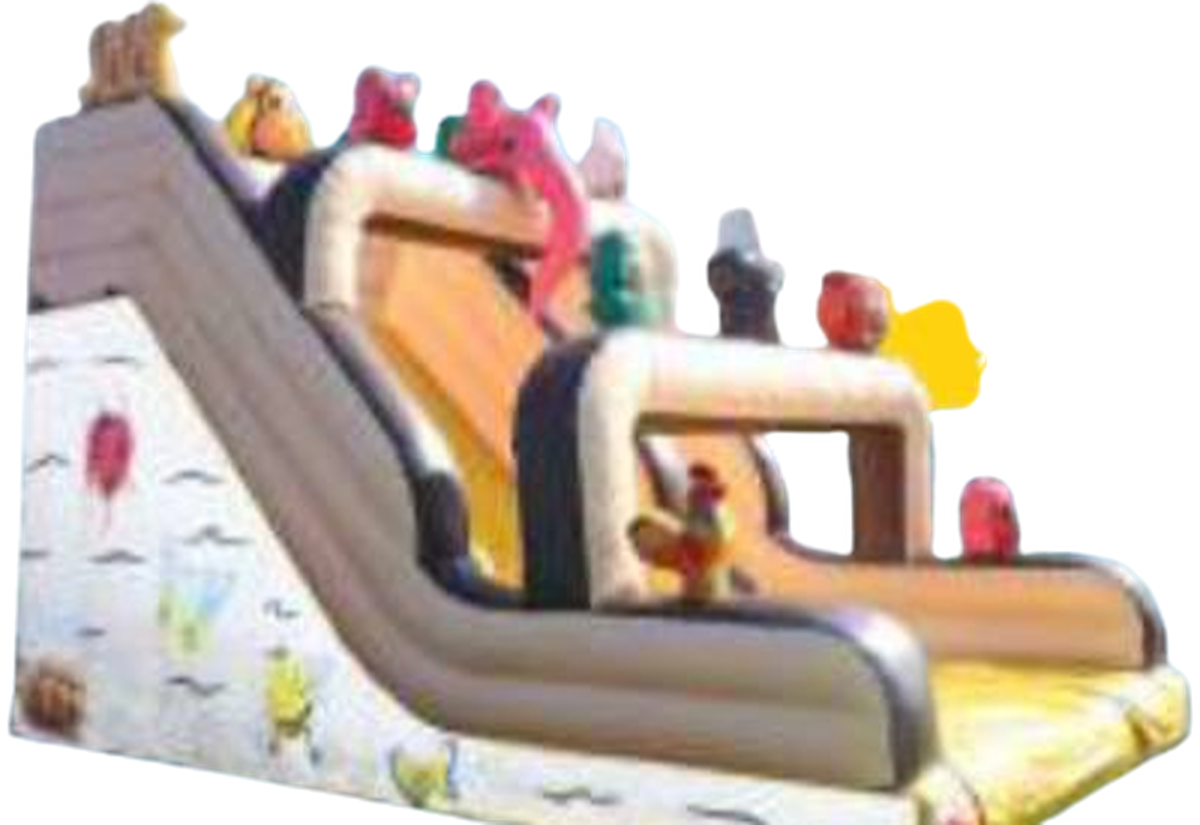
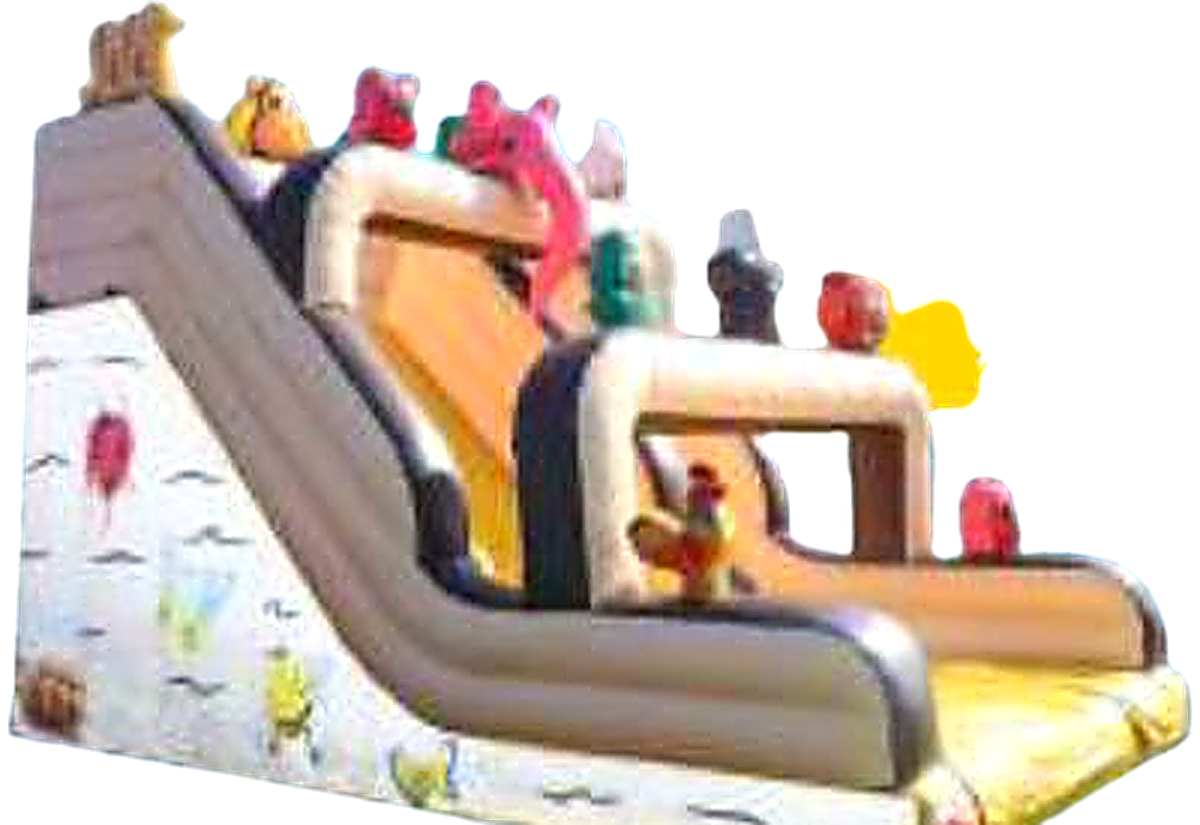
Inflatable Games & Kids' Fun: sharpen and boost contrast on all 30 catalog cutouts (local only)

diff --git a/service-inflatables.html b/service-inflatables.html
@@ -84,36 +84,36 @@
       <figure class="svc-photo reveal" style="--d:90ms"><img src="/.netlify/images?url=/images/svc-inflatables-2.jpg&amp;w=900&amp;q=90&amp;v=afe5e49c" srcset="/.netlify/images?url=/images/svc-inflatables-2.jpg&amp;w=600&amp;q=90&amp;v=afe5e49c 600w, /.netlify/images?url=/images/svc-inflatables-2.jpg&amp;w=900&amp;q=90&amp;v=afe5e49c 900w, /.netlify/images?url=/images/svc-inflatables-2.jpg&amp;w=1400&amp;q=90&amp;v=afe5e49c 1400w" sizes="(max-width:700px) 92vw, (max-width:1100px) 46vw, 360px" alt="Inflatable Games &amp; Kids&#x27; Fun by Paradream Events" loading="lazy" decoding="async"></figure>
       <figure class="svc-photo reveal" style="--d:180ms"><img src="/.netlify/images?url=/images/svc-inflatables-3.jpg&amp;w=900&amp;q=90&amp;v=d2acff7e" srcset="/.netlify/images?url=/images/svc-inflatables-3.jpg&amp;w=600&amp;q=90&amp;v=d2acff7e 600w, /.netlify/images?url=/images/svc-inflatables-3.jpg&amp;w=900&amp;q=90&amp;v=d2acff7e 900w, /.netlify/images?url=/images/svc-inflatables-3.jpg&amp;w=1400&amp;q=90&amp;v=d2acff7e 1400w" sizes="(max-width:700px) 92vw, (max-width:1100px) 46vw, 360px" alt="Inflatable Games &amp; Kids&#x27; Fun by Paradream Events" loading="lazy" decoding="async"></figure>
       <figure class="svc-photo reveal" style="--d:0ms"><img src="/.netlify/images?url=/images/svc-inflatables-4.jpg&amp;w=900&amp;q=90&amp;v=7fde3c8b" srcset="/.netlify/images?url=/images/svc-inflatables-4.jpg&amp;w=600&amp;q=90&amp;v=7fde3c8b 600w, /.netlify/images?url=/images/svc-inflatables-4.jpg&amp;w=900&amp;q=90&amp;v=7fde3c8b 900w, /.netlify/images?url=/images/svc-inflatables-4.jpg&amp;w=1400&amp;q=90&amp;v=7fde3c8b 1400w" sizes="(max-width:700px) 92vw, (max-width:1100px) 46vw, 360px" alt="Inflatable Games &amp; Kids&#x27; Fun by Paradream Events" loading="lazy" decoding="async"></figure>
-      <figure class="svc-photo reveal" style="--d:90ms"><img src="/.netlify/images?url=/images/svc-inflatables-5.png&amp;w=900&amp;q=90&amp;v=60a9649d" srcset="/.netlify/images?url=/images/svc-inflatables-5.png&amp;w=600&amp;q=90&amp;v=60a9649d 600w, /.netlify/images?url=/images/svc-inflatables-5.png&amp;w=900&amp;q=90&amp;v=60a9649d 900w, /.netlify/images?url=/images/svc-inflatables-5.png&amp;w=1400&amp;q=90&amp;v=60a9649d 1400w" sizes="(max-width:700px) 92vw, (max-width:1100px) 46vw, 360px" alt="Inflatable Games &amp; Kids&#x27; Fun by Paradream Events" loading="lazy" decoding="async"></figure>
-      <figure class="svc-photo reveal" style="--d:180ms"><img src="/.netlify/images?url=/images/svc-inflatables-6.png&amp;w=900&amp;q=90&amp;v=51c87a32" srcset="/.netlify/images?url=/images/svc-inflatables-6.png&amp;w=600&amp;q=90&amp;v=51c87a32 600w, /.netlify/images?url=/images/svc-inflatables-6.png&amp;w=900&amp;q=90&amp;v=51c87a32 900w, /.netlify/images?url=/images/svc-inflatables-6.png&amp;w=1400&amp;q=90&amp;v=51c87a32 1400w" sizes="(max-width:700px) 92vw, (max-width:1100px) 46vw, 360px" alt="Inflatable Games &amp; Kids&#x27; Fun by Paradream Events" loading="lazy" decoding="async"></figure>
-      <figure class="svc-photo reveal" style="--d:0ms"><img src="/.netlify/images?url=/images/svc-inflatables-7.png&amp;w=900&amp;q=90&amp;v=8369c013" srcset="/.netlify/images?url=/images/svc-inflatables-7.png&amp;w=600&amp;q=90&amp;v=8369c013 600w, /.netlify/images?url=/images/svc-inflatables-7.png&amp;w=900&amp;q=90&amp;v=8369c013 900w, /.netlify/images?url=/images/svc-inflatables-7.png&amp;w=1400&amp;q=90&amp;v=8369c013 1400w" sizes="(max-width:700px) 92vw, (max-width:1100px) 46vw, 360px" alt="Inflatable Games &amp; Kids&#x27; Fun by Paradream Events" loading="lazy" decoding="async"></figure>
-      <figure class="svc-photo reveal" style="--d:90ms"><img src="/.netlify/images?url=/images/svc-inflatables-8.png&amp;w=900&amp;q=90&amp;v=6cb397a5" srcset="/.netlify/images?url=/images/svc-inflatables-8.png&amp;w=600&amp;q=90&amp;v=6cb397a5 600w, /.netlify/images?url=/images/svc-inflatables-8.png&amp;w=900&amp;q=90&amp;v=6cb397a5 900w, /.netlify/images?url=/images/svc-inflatables-8.png&amp;w=1400&amp;q=90&amp;v=6cb397a5 1400w" sizes="(max-width:700px) 92vw, (max-width:1100px) 46vw, 360px" alt="Inflatable Games &amp; Kids&#x27; Fun by Paradream Events" loading="lazy" decoding="async"></figure>
-      <figure class="svc-photo reveal" style="--d:180ms"><img src="/.netlify/images?url=/images/svc-inflatables-9.png&amp;w=900&amp;q=90&amp;v=718d1d9f" srcset="/.netlify/images?url=/images/svc-inflatables-9.png&amp;w=600&amp;q=90&amp;v=718d1d9f 600w, /.netlify/images?url=/images/svc-inflatables-9.png&amp;w=900&amp;q=90&amp;v=718d1d9f 900w, /.netlify/images?url=/images/svc-inflatables-9.png&amp;w=1400&amp;q=90&amp;v=718d1d9f 1400w" sizes="(max-width:700px) 92vw, (max-width:1100px) 46vw, 360px" alt="Inflatable Games &amp; Kids&#x27; Fun by Paradream Events" loading="lazy" decoding="async"></figure>
-      <figure class="svc-photo reveal" style="--d:0ms"><img src="/.netlify/images?url=/images/svc-inflatables-10.png&amp;w=900&amp;q=90&amp;v=f4b3ef18" srcset="/.netlify/images?url=/images/svc-inflatables-10.png&amp;w=600&amp;q=90&amp;v=f4b3ef18 600w, /.netlify/images?url=/images/svc-inflatables-10.png&amp;w=900&amp;q=90&amp;v=f4b3ef18 900w, /.netlify/images?url=/images/svc-inflatables-10.png&amp;w=1400&amp;q=90&amp;v=f4b3ef18 1400w" sizes="(max-width:700px) 92vw, (max-width:1100px) 46vw, 360px" alt="Inflatable Games &amp; Kids&#x27; Fun by Paradream Events" loading="lazy" decoding="async"></figure>
-      <figure class="svc-photo reveal" style="--d:90ms"><img src="/.netlify/images?url=/images/svc-inflatables-11.png&amp;w=900&amp;q=90&amp;v=94c405a4" srcset="/.netlify/images?url=/images/svc-inflatables-11.png&amp;w=600&amp;q=90&amp;v=94c405a4 600w, /.netlify/images?url=/images/svc-inflatables-11.png&amp;w=900&amp;q=90&amp;v=94c405a4 900w, /.netlify/images?url=/images/svc-inflatables-11.png&amp;w=1400&amp;q=90&amp;v=94c405a4 1400w" sizes="(max-width:700px) 92vw, (max-width:1100px) 46vw, 360px" alt="Inflatable Games &amp; Kids&#x27; Fun by Paradream Events" loading="lazy" decoding="async"></figure>
-      <figure class="svc-photo reveal" style="--d:180ms"><img src="/.netlify/images?url=/images/svc-inflatables-12.png&amp;w=900&amp;q=90&amp;v=8c9dfc99" srcset="/.netlify/images?url=/images/svc-inflatables-12.png&amp;w=600&amp;q=90&amp;v=8c9dfc99 600w, /.netlify/images?url=/images/svc-inflatables-12.png&amp;w=900&amp;q=90&amp;v=8c9dfc99 900w, /.netlify/images?url=/images/svc-inflatables-12.png&amp;w=1400&amp;q=90&amp;v=8c9dfc99 1400w" sizes="(max-width:700px) 92vw, (max-width:1100px) 46vw, 360px" alt="Inflatable Games &amp; Kids&#x27; Fun by Paradream Events" loading="lazy" decoding="async"></figure>
-      <figure class="svc-photo reveal" style="--d:0ms"><img src="/.netlify/images?url=/images/svc-inflatables-13.png&amp;w=900&amp;q=90&amp;v=9fdfcb90" srcset="/.netlify/images?url=/images/svc-inflatables-13.png&amp;w=600&amp;q=90&amp;v=9fdfcb90 600w, /.netlify/images?url=/images/svc-inflatables-13.png&amp;w=900&amp;q=90&amp;v=9fdfcb90 900w, /.netlify/images?url=/images/svc-inflatables-13.png&amp;w=1400&amp;q=90&amp;v=9fdfcb90 1400w" sizes="(max-width:700px) 92vw, (max-width:1100px) 46vw, 360px" alt="Inflatable Games &amp; Kids&#x27; Fun by Paradream Events" loading="lazy" decoding="async"></figure>
-      <figure class="svc-photo reveal" style="--d:90ms"><img src="/.netlify/images?url=/images/svc-inflatables-14.png&amp;w=900&amp;q=90&amp;v=ad14c61b" srcset="/.netlify/images?url=/images/svc-inflatables-14.png&amp;w=600&amp;q=90&amp;v=ad14c61b 600w, /.netlify/images?url=/images/svc-inflatables-14.png&amp;w=900&amp;q=90&amp;v=ad14c61b 900w, /.netlify/images?url=/images/svc-inflatables-14.png&amp;w=1400&amp;q=90&amp;v=ad14c61b 1400w" sizes="(max-width:700px) 92vw, (max-width:1100px) 46vw, 360px" alt="Inflatable Games &amp; Kids&#x27; Fun by Paradream Events" loading="lazy" decoding="async"></figure>
-      <figure class="svc-photo reveal" style="--d:180ms"><img src="/.netlify/images?url=/images/svc-inflatables-15.png&amp;w=900&amp;q=90&amp;v=b936c612" srcset="/.netlify/images?url=/images/svc-inflatables-15.png&amp;w=600&amp;q=90&amp;v=b936c612 600w, /.netlify/images?url=/images/svc-inflatables-15.png&amp;w=900&amp;q=90&amp;v=b936c612 900w, /.netlify/images?url=/images/svc-inflatables-15.png&amp;w=1400&amp;q=90&amp;v=b936c612 1400w" sizes="(max-width:700px) 92vw, (max-width:1100px) 46vw, 360px" alt="Inflatable Games &amp; Kids&#x27; Fun by Paradream Events" loading="lazy" decoding="async"></figure>
-      <figure class="svc-photo reveal" style="--d:0ms"><img src="/.netlify/images?url=/images/svc-inflatables-16.png&amp;w=900&amp;q=90&amp;v=3f46c5b8" srcset="/.netlify/images?url=/images/svc-inflatables-16.png&amp;w=600&amp;q=90&amp;v=3f46c5b8 600w, /.netlify/images?url=/images/svc-inflatables-16.png&amp;w=900&amp;q=90&amp;v=3f46c5b8 900w, /.netlify/images?url=/images/svc-inflatables-16.png&amp;w=1400&amp;q=90&amp;v=3f46c5b8 1400w" sizes="(max-width:700px) 92vw, (max-width:1100px) 46vw, 360px" alt="Inflatable Games &amp; Kids&#x27; Fun by Paradream Events" loading="lazy" decoding="async"></figure>
-      <figure class="svc-photo reveal" style="--d:90ms"><img src="/.netlify/images?url=/images/svc-inflatables-17.png&amp;w=900&amp;q=90&amp;v=e3d0f9cc" srcset="/.netlify/images?url=/images/svc-inflatables-17.png&amp;w=600&amp;q=90&amp;v=e3d0f9cc 600w, /.netlify/images?url=/images/svc-inflatables-17.png&amp;w=900&amp;q=90&amp;v=e3d0f9cc 900w, /.netlify/images?url=/images/svc-inflatables-17.png&amp;w=1400&amp;q=90&amp;v=e3d0f9cc 1400w" sizes="(max-width:700px) 92vw, (max-width:1100px) 46vw, 360px" alt="Inflatable Games &amp; Kids&#x27; Fun by Paradream Events" loading="lazy" decoding="async"></figure>
-      <figure class="svc-photo reveal" style="--d:180ms"><img src="/.netlify/images?url=/images/svc-inflatables-18.png&amp;w=900&amp;q=90&amp;v=20090987" srcset="/.netlify/images?url=/images/svc-inflatables-18.png&amp;w=600&amp;q=90&amp;v=20090987 600w, /.netlify/images?url=/images/svc-inflatables-18.png&amp;w=900&amp;q=90&amp;v=20090987 900w, /.netlify/images?url=/images/svc-inflatables-18.png&amp;w=1400&amp;q=90&amp;v=20090987 1400w" sizes="(max-width:700px) 92vw, (max-width:1100px) 46vw, 360px" alt="Inflatable Games &amp; Kids&#x27; Fun by Paradream Events" loading="lazy" decoding="async"></figure>
-      <figure class="svc-photo reveal" style="--d:0ms"><img src="/.netlify/images?url=/images/svc-inflatables-19.png&amp;w=900&amp;q=90&amp;v=02a47943" srcset="/.netlify/images?url=/images/svc-inflatables-19.png&amp;w=600&amp;q=90&amp;v=02a47943 600w, /.netlify/images?url=/images/svc-inflatables-19.png&amp;w=900&amp;q=90&amp;v=02a47943 900w, /.netlify/images?url=/images/svc-inflatables-19.png&amp;w=1400&amp;q=90&amp;v=02a47943 1400w" sizes="(max-width:700px) 92vw, (max-width:1100px) 46vw, 360px" alt="Inflatable Games &amp; Kids&#x27; Fun by Paradream Events" loading="lazy" decoding="async"></figure>
-      <figure class="svc-photo reveal" style="--d:90ms"><img src="/.netlify/images?url=/images/svc-inflatables-20.png&amp;w=900&amp;q=90&amp;v=647cbd70" srcset="/.netlify/images?url=/images/svc-inflatables-20.png&amp;w=600&amp;q=90&amp;v=647cbd70 600w, /.netlify/images?url=/images/svc-inflatables-20.png&amp;w=900&amp;q=90&amp;v=647cbd70 900w, /.netlify/images?url=/images/svc-inflatables-20.png&amp;w=1400&amp;q=90&amp;v=647cbd70 1400w" sizes="(max-width:700px) 92vw, (max-width:1100px) 46vw, 360px" alt="Inflatable Games &amp; Kids&#x27; Fun by Paradream Events" loading="lazy" decoding="async"></figure>
-      <figure class="svc-photo reveal" style="--d:180ms"><img src="/.netlify/images?url=/images/svc-inflatables-21.png&amp;w=900&amp;q=90&amp;v=03945001" srcset="/.netlify/images?url=/images/svc-inflatables-21.png&amp;w=600&amp;q=90&amp;v=03945001 600w, /.netlify/images?url=/images/svc-inflatables-21.png&amp;w=900&amp;q=90&amp;v=03945001 900w, /.netlify/images?url=/images/svc-inflatables-21.png&amp;w=1400&amp;q=90&amp;v=03945001 1400w" sizes="(max-width:700px) 92vw, (max-width:1100px) 46vw, 360px" alt="Inflatable Games &amp; Kids&#x27; Fun by Paradream Events" loading="lazy" decoding="async"></figure>
-      <figure class="svc-photo reveal" style="--d:0ms"><img src="/.netlify/images?url=/images/svc-inflatables-22.png&amp;w=900&amp;q=90&amp;v=3f6f5fab" srcset="/.netlify/images?url=/images/svc-inflatables-22.png&amp;w=600&amp;q=90&amp;v=3f6f5fab 600w, /.netlify/images?url=/images/svc-inflatables-22.png&amp;w=900&amp;q=90&amp;v=3f6f5fab 900w, /.netlify/images?url=/images/svc-inflatables-22.png&amp;w=1400&amp;q=90&amp;v=3f6f5fab 1400w" sizes="(max-width:700px) 92vw, (max-width:1100px) 46vw, 360px" alt="Inflatable Games &amp; Kids&#x27; Fun by Paradream Events" loading="lazy" decoding="async"></figure>
-      <figure class="svc-photo reveal" style="--d:90ms"><img src="/.netlify/images?url=/images/svc-inflatables-23.png&amp;w=900&amp;q=90&amp;v=01598f93" srcset="/.netlify/images?url=/images/svc-inflatables-23.png&amp;w=600&amp;q=90&amp;v=01598f93 600w, /.netlify/images?url=/images/svc-inflatables-23.png&amp;w=900&amp;q=90&amp;v=01598f93 900w, /.netlify/images?url=/images/svc-inflatables-23.png&amp;w=1400&amp;q=90&amp;v=01598f93 1400w" sizes="(max-width:700px) 92vw, (max-width:1100px) 46vw, 360px" alt="Inflatable Games &amp; Kids&#x27; Fun by Paradream Events" loading="lazy" decoding="async"></figure>
-      <figure class="svc-photo reveal" style="--d:180ms"><img src="/.netlify/images?url=/images/svc-inflatables-24.png&amp;w=900&amp;q=90&amp;v=35a049d2" srcset="/.netlify/images?url=/images/svc-inflatables-24.png&amp;w=600&amp;q=90&amp;v=35a049d2 600w, /.netlify/images?url=/images/svc-inflatables-24.png&amp;w=900&amp;q=90&amp;v=35a049d2 900w, /.netlify/images?url=/images/svc-inflatables-24.png&amp;w=1400&amp;q=90&amp;v=35a049d2 1400w" sizes="(max-width:700px) 92vw, (max-width:1100px) 46vw, 360px" alt="Inflatable Games &amp; Kids&#x27; Fun by Paradream Events" loading="lazy" decoding="async"></figure>
-      <figure class="svc-photo reveal" style="--d:0ms"><img src="/.netlify/images?url=/images/svc-inflatables-25.png&amp;w=900&amp;q=90&amp;v=b51b627a" srcset="/.netlify/images?url=/images/svc-inflatables-25.png&amp;w=600&amp;q=90&amp;v=b51b627a 600w, /.netlify/images?url=/images/svc-inflatables-25.png&amp;w=900&amp;q=90&amp;v=b51b627a 900w, /.netlify/images?url=/images/svc-inflatables-25.png&amp;w=1400&amp;q=90&amp;v=b51b627a 1400w" sizes="(max-width:700px) 92vw, (max-width:1100px) 46vw, 360px" alt="Inflatable Games &amp; Kids&#x27; Fun by Paradream Events" loading="lazy" decoding="async"></figure>
-      <figure class="svc-photo reveal" style="--d:90ms"><img src="/.netlify/images?url=/images/svc-inflatables-26.png&amp;w=900&amp;q=90&amp;v=51e1f03b" srcset="/.netlify/images?url=/images/svc-inflatables-26.png&amp;w=600&amp;q=90&amp;v=51e1f03b 600w, /.netlify/images?url=/images/svc-inflatables-26.png&amp;w=900&amp;q=90&amp;v=51e1f03b 900w, /.netlify/images?url=/images/svc-inflatables-26.png&amp;w=1400&amp;q=90&amp;v=51e1f03b 1400w" sizes="(max-width:700px) 92vw, (max-width:1100px) 46vw, 360px" alt="Inflatable Games &amp; Kids&#x27; Fun by Paradream Events" loading="lazy" decoding="async"></figure>
-      <figure class="svc-photo reveal" style="--d:180ms"><img src="/.netlify/images?url=/images/svc-inflatables-27.png&amp;w=900&amp;q=90&amp;v=01dc555d" srcset="/.netlify/images?url=/images/svc-inflatables-27.png&amp;w=600&amp;q=90&amp;v=01dc555d 600w, /.netlify/images?url=/images/svc-inflatables-27.png&amp;w=900&amp;q=90&amp;v=01dc555d 900w, /.netlify/images?url=/images/svc-inflatables-27.png&amp;w=1400&amp;q=90&amp;v=01dc555d 1400w" sizes="(max-width:700px) 92vw, (max-width:1100px) 46vw, 360px" alt="Inflatable Games &amp; Kids&#x27; Fun by Paradream Events" loading="lazy" decoding="async"></figure>
-      <figure class="svc-photo reveal" style="--d:0ms"><img src="/.netlify/images?url=/images/svc-inflatables-28.png&amp;w=900&amp;q=90&amp;v=6c4ebe86" srcset="/.netlify/images?url=/images/svc-inflatables-28.png&amp;w=600&amp;q=90&amp;v=6c4ebe86 600w, /.netlify/images?url=/images/svc-inflatables-28.png&amp;w=900&amp;q=90&amp;v=6c4ebe86 900w, /.netlify/images?url=/images/svc-inflatables-28.png&amp;w=1400&amp;q=90&amp;v=6c4ebe86 1400w" sizes="(max-width:700px) 92vw, (max-width:1100px) 46vw, 360px" alt="Inflatable Games &amp; Kids&#x27; Fun by Paradream Events" loading="lazy" decoding="async"></figure>
-      <figure class="svc-photo reveal" style="--d:90ms"><img src="/.netlify/images?url=/images/svc-inflatables-29.png&amp;w=900&amp;q=90&amp;v=2346327f" srcset="/.netlify/images?url=/images/svc-inflatables-29.png&amp;w=600&amp;q=90&amp;v=2346327f 600w, /.netlify/images?url=/images/svc-inflatables-29.png&amp;w=900&amp;q=90&amp;v=2346327f 900w, /.netlify/images?url=/images/svc-inflatables-29.png&amp;w=1400&amp;q=90&amp;v=2346327f 1400w" sizes="(max-width:700px) 92vw, (max-width:1100px) 46vw, 360px" alt="Inflatable Games &amp; Kids&#x27; Fun by Paradream Events" loading="lazy" decoding="async"></figure>
-      <figure class="svc-photo reveal" style="--d:180ms"><img src="/.netlify/images?url=/images/svc-inflatables-30.png&amp;w=900&amp;q=90&amp;v=c3b0a0e2" srcset="/.netlify/images?url=/images/svc-inflatables-30.png&amp;w=600&amp;q=90&amp;v=c3b0a0e2 600w, /.netlify/images?url=/images/svc-inflatables-30.png&amp;w=900&amp;q=90&amp;v=c3b0a0e2 900w, /.netlify/images?url=/images/svc-inflatables-30.png&amp;w=1400&amp;q=90&amp;v=c3b0a0e2 1400w" sizes="(max-width:700px) 92vw, (max-width:1100px) 46vw, 360px" alt="Inflatable Games &amp; Kids&#x27; Fun by Paradream Events" loading="lazy" decoding="async"></figure>
-      <figure class="svc-photo reveal" style="--d:0ms"><img src="/.netlify/images?url=/images/svc-inflatables-31.png&amp;w=900&amp;q=90&amp;v=279b0f01" srcset="/.netlify/images?url=/images/svc-inflatables-31.png&amp;w=600&amp;q=90&amp;v=279b0f01 600w, /.netlify/images?url=/images/svc-inflatables-31.png&amp;w=900&amp;q=90&amp;v=279b0f01 900w, /.netlify/images?url=/images/svc-inflatables-31.png&amp;w=1400&amp;q=90&amp;v=279b0f01 1400w" sizes="(max-width:700px) 92vw, (max-width:1100px) 46vw, 360px" alt="Inflatable Games &amp; Kids&#x27; Fun by Paradream Events" loading="lazy" decoding="async"></figure>
-      <figure class="svc-photo reveal" style="--d:90ms"><img src="/.netlify/images?url=/images/svc-inflatables-32.png&amp;w=900&amp;q=90&amp;v=ebae00ef" srcset="/.netlify/images?url=/images/svc-inflatables-32.png&amp;w=600&amp;q=90&amp;v=ebae00ef 600w, /.netlify/images?url=/images/svc-inflatables-32.png&amp;w=900&amp;q=90&amp;v=ebae00ef 900w, /.netlify/images?url=/images/svc-inflatables-32.png&amp;w=1400&amp;q=90&amp;v=ebae00ef 1400w" sizes="(max-width:700px) 92vw, (max-width:1100px) 46vw, 360px" alt="Inflatable Games &amp; Kids&#x27; Fun by Paradream Events" loading="lazy" decoding="async"></figure>
-      <figure class="svc-photo reveal" style="--d:180ms"><img src="/.netlify/images?url=/images/svc-inflatables-33.png&amp;w=900&amp;q=90&amp;v=aac0f562" srcset="/.netlify/images?url=/images/svc-inflatables-33.png&amp;w=600&amp;q=90&amp;v=aac0f562 600w, /.netlify/images?url=/images/svc-inflatables-33.png&amp;w=900&amp;q=90&amp;v=aac0f562 900w, /.netlify/images?url=/images/svc-inflatables-33.png&amp;w=1400&amp;q=90&amp;v=aac0f562 1400w" sizes="(max-width:700px) 92vw, (max-width:1100px) 46vw, 360px" alt="Inflatable Games &amp; Kids&#x27; Fun by Paradream Events" loading="lazy" decoding="async"></figure>
-      <figure class="svc-photo reveal" style="--d:0ms"><img src="/.netlify/images?url=/images/svc-inflatables-34.png&amp;w=900&amp;q=90&amp;v=8549872c" srcset="/.netlify/images?url=/images/svc-inflatables-34.png&amp;w=600&amp;q=90&amp;v=8549872c 600w, /.netlify/images?url=/images/svc-inflatables-34.png&amp;w=900&amp;q=90&amp;v=8549872c 900w, /.netlify/images?url=/images/svc-inflatables-34.png&amp;w=1400&amp;q=90&amp;v=8549872c 1400w" sizes="(max-width:700px) 92vw, (max-width:1100px) 46vw, 360px" alt="Inflatable Games &amp; Kids&#x27; Fun by Paradream Events" loading="lazy" decoding="async"></figure>
+      <figure class="svc-photo reveal" style="--d:90ms"><img src="/.netlify/images?url=/images/svc-inflatables-5.png&amp;w=900&amp;q=90&amp;v=7063a326" srcset="/.netlify/images?url=/images/svc-inflatables-5.png&amp;w=600&amp;q=90&amp;v=7063a326 600w, /.netlify/images?url=/images/svc-inflatables-5.png&amp;w=900&amp;q=90&amp;v=7063a326 900w, /.netlify/images?url=/images/svc-inflatables-5.png&amp;w=1400&amp;q=90&amp;v=7063a326 1400w" sizes="(max-width:700px) 92vw, (max-width:1100px) 46vw, 360px" alt="Inflatable Games &amp; Kids&#x27; Fun by Paradream Events" loading="lazy" decoding="async"></figure>
+      <figure class="svc-photo reveal" style="--d:180ms"><img src="/.netlify/images?url=/images/svc-inflatables-6.png&amp;w=900&amp;q=90&amp;v=c65e39b2" srcset="/.netlify/images?url=/images/svc-inflatables-6.png&amp;w=600&amp;q=90&amp;v=c65e39b2 600w, /.netlify/images?url=/images/svc-inflatables-6.png&amp;w=900&amp;q=90&amp;v=c65e39b2 900w, /.netlify/images?url=/images/svc-inflatables-6.png&amp;w=1400&amp;q=90&amp;v=c65e39b2 1400w" sizes="(max-width:700px) 92vw, (max-width:1100px) 46vw, 360px" alt="Inflatable Games &amp; Kids&#x27; Fun by Paradream Events" loading="lazy" decoding="async"></figure>
+      <figure class="svc-photo reveal" style="--d:0ms"><img src="/.netlify/images?url=/images/svc-inflatables-7.png&amp;w=900&amp;q=90&amp;v=87ff0075" srcset="/.netlify/images?url=/images/svc-inflatables-7.png&amp;w=600&amp;q=90&amp;v=87ff0075 600w, /.netlify/images?url=/images/svc-inflatables-7.png&amp;w=900&amp;q=90&amp;v=87ff0075 900w, /.netlify/images?url=/images/svc-inflatables-7.png&amp;w=1400&amp;q=90&amp;v=87ff0075 1400w" sizes="(max-width:700px) 92vw, (max-width:1100px) 46vw, 360px" alt="Inflatable Games &amp; Kids&#x27; Fun by Paradream Events" loading="lazy" decoding="async"></figure>
+      <figure class="svc-photo reveal" style="--d:90ms"><img src="/.netlify/images?url=/images/svc-inflatables-8.png&amp;w=900&amp;q=90&amp;v=ba74fb04" srcset="/.netlify/images?url=/images/svc-inflatables-8.png&amp;w=600&amp;q=90&amp;v=ba74fb04 600w, /.netlify/images?url=/images/svc-inflatables-8.png&amp;w=900&amp;q=90&amp;v=ba74fb04 900w, /.netlify/images?url=/images/svc-inflatables-8.png&amp;w=1400&amp;q=90&amp;v=ba74fb04 1400w" sizes="(max-width:700px) 92vw, (max-width:1100px) 46vw, 360px" alt="Inflatable Games &amp; Kids&#x27; Fun by Paradream Events" loading="lazy" decoding="async"></figure>
+      <figure class="svc-photo reveal" style="--d:180ms"><img src="/.netlify/images?url=/images/svc-inflatables-9.png&amp;w=900&amp;q=90&amp;v=8b869862" srcset="/.netlify/images?url=/images/svc-inflatables-9.png&amp;w=600&amp;q=90&amp;v=8b869862 600w, /.netlify/images?url=/images/svc-inflatables-9.png&amp;w=900&amp;q=90&amp;v=8b869862 900w, /.netlify/images?url=/images/svc-inflatables-9.png&amp;w=1400&amp;q=90&amp;v=8b869862 1400w" sizes="(max-width:700px) 92vw, (max-width:1100px) 46vw, 360px" alt="Inflatable Games &amp; Kids&#x27; Fun by Paradream Events" loading="lazy" decoding="async"></figure>
+      <figure class="svc-photo reveal" style="--d:0ms"><img src="/.netlify/images?url=/images/svc-inflatables-10.png&amp;w=900&amp;q=90&amp;v=2fbcb329" srcset="/.netlify/images?url=/images/svc-inflatables-10.png&amp;w=600&amp;q=90&amp;v=2fbcb329 600w, /.netlify/images?url=/images/svc-inflatables-10.png&amp;w=900&amp;q=90&amp;v=2fbcb329 900w, /.netlify/images?url=/images/svc-inflatables-10.png&amp;w=1400&amp;q=90&amp;v=2fbcb329 1400w" sizes="(max-width:700px) 92vw, (max-width:1100px) 46vw, 360px" alt="Inflatable Games &amp; Kids&#x27; Fun by Paradream Events" loading="lazy" decoding="async"></figure>
+      <figure class="svc-photo reveal" style="--d:90ms"><img src="/.netlify/images?url=/images/svc-inflatables-11.png&amp;w=900&amp;q=90&amp;v=29183a60" srcset="/.netlify/images?url=/images/svc-inflatables-11.png&amp;w=600&amp;q=90&amp;v=29183a60 600w, /.netlify/images?url=/images/svc-inflatables-11.png&amp;w=900&amp;q=90&amp;v=29183a60 900w, /.netlify/images?url=/images/svc-inflatables-11.png&amp;w=1400&amp;q=90&amp;v=29183a60 1400w" sizes="(max-width:700px) 92vw, (max-width:1100px) 46vw, 360px" alt="Inflatable Games &amp; Kids&#x27; Fun by Paradream Events" loading="lazy" decoding="async"></figure>
+      <figure class="svc-photo reveal" style="--d:180ms"><img src="/.netlify/images?url=/images/svc-inflatables-12.png&amp;w=900&amp;q=90&amp;v=c753f797" srcset="/.netlify/images?url=/images/svc-inflatables-12.png&amp;w=600&amp;q=90&amp;v=c753f797 600w, /.netlify/images?url=/images/svc-inflatables-12.png&amp;w=900&amp;q=90&amp;v=c753f797 900w, /.netlify/images?url=/images/svc-inflatables-12.png&amp;w=1400&amp;q=90&amp;v=c753f797 1400w" sizes="(max-width:700px) 92vw, (max-width:1100px) 46vw, 360px" alt="Inflatable Games &amp; Kids&#x27; Fun by Paradream Events" loading="lazy" decoding="async"></figure>
+      <figure class="svc-photo reveal" style="--d:0ms"><img src="/.netlify/images?url=/images/svc-inflatables-13.png&amp;w=900&amp;q=90&amp;v=ceaaf33e" srcset="/.netlify/images?url=/images/svc-inflatables-13.png&amp;w=600&amp;q=90&amp;v=ceaaf33e 600w, /.netlify/images?url=/images/svc-inflatables-13.png&amp;w=900&amp;q=90&amp;v=ceaaf33e 900w, /.netlify/images?url=/images/svc-inflatables-13.png&amp;w=1400&amp;q=90&amp;v=ceaaf33e 1400w" sizes="(max-width:700px) 92vw, (max-width:1100px) 46vw, 360px" alt="Inflatable Games &amp; Kids&#x27; Fun by Paradream Events" loading="lazy" decoding="async"></figure>
+      <figure class="svc-photo reveal" style="--d:90ms"><img src="/.netlify/images?url=/images/svc-inflatables-14.png&amp;w=900&amp;q=90&amp;v=07f8735f" srcset="/.netlify/images?url=/images/svc-inflatables-14.png&amp;w=600&amp;q=90&amp;v=07f8735f 600w, /.netlify/images?url=/images/svc-inflatables-14.png&amp;w=900&amp;q=90&amp;v=07f8735f 900w, /.netlify/images?url=/images/svc-inflatables-14.png&amp;w=1400&amp;q=90&amp;v=07f8735f 1400w" sizes="(max-width:700px) 92vw, (max-width:1100px) 46vw, 360px" alt="Inflatable Games &amp; Kids&#x27; Fun by Paradream Events" loading="lazy" decoding="async"></figure>
+      <figure class="svc-photo reveal" style="--d:180ms"><img src="/.netlify/images?url=/images/svc-inflatables-15.png&amp;w=900&amp;q=90&amp;v=b7a6bbc5" srcset="/.netlify/images?url=/images/svc-inflatables-15.png&amp;w=600&amp;q=90&amp;v=b7a6bbc5 600w, /.netlify/images?url=/images/svc-inflatables-15.png&amp;w=900&amp;q=90&amp;v=b7a6bbc5 900w, /.netlify/images?url=/images/svc-inflatables-15.png&amp;w=1400&amp;q=90&amp;v=b7a6bbc5 1400w" sizes="(max-width:700px) 92vw, (max-width:1100px) 46vw, 360px" alt="Inflatable Games &amp; Kids&#x27; Fun by Paradream Events" loading="lazy" decoding="async"></figure>
+      <figure class="svc-photo reveal" style="--d:0ms"><img src="/.netlify/images?url=/images/svc-inflatables-16.png&amp;w=900&amp;q=90&amp;v=c2a07615" srcset="/.netlify/images?url=/images/svc-inflatables-16.png&amp;w=600&amp;q=90&amp;v=c2a07615 600w, /.netlify/images?url=/images/svc-inflatables-16.png&amp;w=900&amp;q=90&amp;v=c2a07615 900w, /.netlify/images?url=/images/svc-inflatables-16.png&amp;w=1400&amp;q=90&amp;v=c2a07615 1400w" sizes="(max-width:700px) 92vw, (max-width:1100px) 46vw, 360px" alt="Inflatable Games &amp; Kids&#x27; Fun by Paradream Events" loading="lazy" decoding="async"></figure>
+      <figure class="svc-photo reveal" style="--d:90ms"><img src="/.netlify/images?url=/images/svc-inflatables-17.png&amp;w=900&amp;q=90&amp;v=ce0fd31e" srcset="/.netlify/images?url=/images/svc-inflatables-17.png&amp;w=600&amp;q=90&amp;v=ce0fd31e 600w, /.netlify/images?url=/images/svc-inflatables-17.png&amp;w=900&amp;q=90&amp;v=ce0fd31e 900w, /.netlify/images?url=/images/svc-inflatables-17.png&amp;w=1400&amp;q=90&amp;v=ce0fd31e 1400w" sizes="(max-width:700px) 92vw, (max-width:1100px) 46vw, 360px" alt="Inflatable Games &amp; Kids&#x27; Fun by Paradream Events" loading="lazy" decoding="async"></figure>
+      <figure class="svc-photo reveal" style="--d:180ms"><img src="/.netlify/images?url=/images/svc-inflatables-18.png&amp;w=900&amp;q=90&amp;v=86ca5d80" srcset="/.netlify/images?url=/images/svc-inflatables-18.png&amp;w=600&amp;q=90&amp;v=86ca5d80 600w, /.netlify/images?url=/images/svc-inflatables-18.png&amp;w=900&amp;q=90&amp;v=86ca5d80 900w, /.netlify/images?url=/images/svc-inflatables-18.png&amp;w=1400&amp;q=90&amp;v=86ca5d80 1400w" sizes="(max-width:700px) 92vw, (max-width:1100px) 46vw, 360px" alt="Inflatable Games &amp; Kids&#x27; Fun by Paradream Events" loading="lazy" decoding="async"></figure>
+      <figure class="svc-photo reveal" style="--d:0ms"><img src="/.netlify/images?url=/images/svc-inflatables-19.png&amp;w=900&amp;q=90&amp;v=8e4e5d20" srcset="/.netlify/images?url=/images/svc-inflatables-19.png&amp;w=600&amp;q=90&amp;v=8e4e5d20 600w, /.netlify/images?url=/images/svc-inflatables-19.png&amp;w=900&amp;q=90&amp;v=8e4e5d20 900w, /.netlify/images?url=/images/svc-inflatables-19.png&amp;w=1400&amp;q=90&amp;v=8e4e5d20 1400w" sizes="(max-width:700px) 92vw, (max-width:1100px) 46vw, 360px" alt="Inflatable Games &amp; Kids&#x27; Fun by Paradream Events" loading="lazy" decoding="async"></figure>
+      <figure class="svc-photo reveal" style="--d:90ms"><img src="/.netlify/images?url=/images/svc-inflatables-20.png&amp;w=900&amp;q=90&amp;v=45dcaf0a" srcset="/.netlify/images?url=/images/svc-inflatables-20.png&amp;w=600&amp;q=90&amp;v=45dcaf0a 600w, /.netlify/images?url=/images/svc-inflatables-20.png&amp;w=900&amp;q=90&amp;v=45dcaf0a 900w, /.netlify/images?url=/images/svc-inflatables-20.png&amp;w=1400&amp;q=90&amp;v=45dcaf0a 1400w" sizes="(max-width:700px) 92vw, (max-width:1100px) 46vw, 360px" alt="Inflatable Games &amp; Kids&#x27; Fun by Paradream Events" loading="lazy" decoding="async"></figure>
+      <figure class="svc-photo reveal" style="--d:180ms"><img src="/.netlify/images?url=/images/svc-inflatables-21.png&amp;w=900&amp;q=90&amp;v=a6803965" srcset="/.netlify/images?url=/images/svc-inflatables-21.png&amp;w=600&amp;q=90&amp;v=a6803965 600w, /.netlify/images?url=/images/svc-inflatables-21.png&amp;w=900&amp;q=90&amp;v=a6803965 900w, /.netlify/images?url=/images/svc-inflatables-21.png&amp;w=1400&amp;q=90&amp;v=a6803965 1400w" sizes="(max-width:700px) 92vw, (max-width:1100px) 46vw, 360px" alt="Inflatable Games &amp; Kids&#x27; Fun by Paradream Events" loading="lazy" decoding="async"></figure>
+      <figure class="svc-photo reveal" style="--d:0ms"><img src="/.netlify/images?url=/images/svc-inflatables-22.png&amp;w=900&amp;q=90&amp;v=365084b3" srcset="/.netlify/images?url=/images/svc-inflatables-22.png&amp;w=600&amp;q=90&amp;v=365084b3 600w, /.netlify/images?url=/images/svc-inflatables-22.png&amp;w=900&amp;q=90&amp;v=365084b3 900w, /.netlify/images?url=/images/svc-inflatables-22.png&amp;w=1400&amp;q=90&amp;v=365084b3 1400w" sizes="(max-width:700px) 92vw, (max-width:1100px) 46vw, 360px" alt="Inflatable Games &amp; Kids&#x27; Fun by Paradream Events" loading="lazy" decoding="async"></figure>
+      <figure class="svc-photo reveal" style="--d:90ms"><img src="/.netlify/images?url=/images/svc-inflatables-23.png&amp;w=900&amp;q=90&amp;v=73f1dfaa" srcset="/.netlify/images?url=/images/svc-inflatables-23.png&amp;w=600&amp;q=90&amp;v=73f1dfaa 600w, /.netlify/images?url=/images/svc-inflatables-23.png&amp;w=900&amp;q=90&amp;v=73f1dfaa 900w, /.netlify/images?url=/images/svc-inflatables-23.png&amp;w=1400&amp;q=90&amp;v=73f1dfaa 1400w" sizes="(max-width:700px) 92vw, (max-width:1100px) 46vw, 360px" alt="Inflatable Games &amp; Kids&#x27; Fun by Paradream Events" loading="lazy" decoding="async"></figure>
+      <figure class="svc-photo reveal" style="--d:180ms"><img src="/.netlify/images?url=/images/svc-inflatables-24.png&amp;w=900&amp;q=90&amp;v=01ae0927" srcset="/.netlify/images?url=/images/svc-inflatables-24.png&amp;w=600&amp;q=90&amp;v=01ae0927 600w, /.netlify/images?url=/images/svc-inflatables-24.png&amp;w=900&amp;q=90&amp;v=01ae0927 900w, /.netlify/images?url=/images/svc-inflatables-24.png&amp;w=1400&amp;q=90&amp;v=01ae0927 1400w" sizes="(max-width:700px) 92vw, (max-width:1100px) 46vw, 360px" alt="Inflatable Games &amp; Kids&#x27; Fun by Paradream Events" loading="lazy" decoding="async"></figure>
+      <figure class="svc-photo reveal" style="--d:0ms"><img src="/.netlify/images?url=/images/svc-inflatables-25.png&amp;w=900&amp;q=90&amp;v=8df19b8a" srcset="/.netlify/images?url=/images/svc-inflatables-25.png&amp;w=600&amp;q=90&amp;v=8df19b8a 600w, /.netlify/images?url=/images/svc-inflatables-25.png&amp;w=900&amp;q=90&amp;v=8df19b8a 900w, /.netlify/images?url=/images/svc-inflatables-25.png&amp;w=1400&amp;q=90&amp;v=8df19b8a 1400w" sizes="(max-width:700px) 92vw, (max-width:1100px) 46vw, 360px" alt="Inflatable Games &amp; Kids&#x27; Fun by Paradream Events" loading="lazy" decoding="async"></figure>
+      <figure class="svc-photo reveal" style="--d:90ms"><img src="/.netlify/images?url=/images/svc-inflatables-26.png&amp;w=900&amp;q=90&amp;v=e721562a" srcset="/.netlify/images?url=/images/svc-inflatables-26.png&amp;w=600&amp;q=90&amp;v=e721562a 600w, /.netlify/images?url=/images/svc-inflatables-26.png&amp;w=900&amp;q=90&amp;v=e721562a 900w, /.netlify/images?url=/images/svc-inflatables-26.png&amp;w=1400&amp;q=90&amp;v=e721562a 1400w" sizes="(max-width:700px) 92vw, (max-width:1100px) 46vw, 360px" alt="Inflatable Games &amp; Kids&#x27; Fun by Paradream Events" loading="lazy" decoding="async"></figure>
+      <figure class="svc-photo reveal" style="--d:180ms"><img src="/.netlify/images?url=/images/svc-inflatables-27.png&amp;w=900&amp;q=90&amp;v=1a5739b5" srcset="/.netlify/images?url=/images/svc-inflatables-27.png&amp;w=600&amp;q=90&amp;v=1a5739b5 600w, /.netlify/images?url=/images/svc-inflatables-27.png&amp;w=900&amp;q=90&amp;v=1a5739b5 900w, /.netlify/images?url=/images/svc-inflatables-27.png&amp;w=1400&amp;q=90&amp;v=1a5739b5 1400w" sizes="(max-width:700px) 92vw, (max-width:1100px) 46vw, 360px" alt="Inflatable Games &amp; Kids&#x27; Fun by Paradream Events" loading="lazy" decoding="async"></figure>
+      <figure class="svc-photo reveal" style="--d:0ms"><img src="/.netlify/images?url=/images/svc-inflatables-28.png&amp;w=900&amp;q=90&amp;v=ed148a6b" srcset="/.netlify/images?url=/images/svc-inflatables-28.png&amp;w=600&amp;q=90&amp;v=ed148a6b 600w, /.netlify/images?url=/images/svc-inflatables-28.png&amp;w=900&amp;q=90&amp;v=ed148a6b 900w, /.netlify/images?url=/images/svc-inflatables-28.png&amp;w=1400&amp;q=90&amp;v=ed148a6b 1400w" sizes="(max-width:700px) 92vw, (max-width:1100px) 46vw, 360px" alt="Inflatable Games &amp; Kids&#x27; Fun by Paradream Events" loading="lazy" decoding="async"></figure>
+      <figure class="svc-photo reveal" style="--d:90ms"><img src="/.netlify/images?url=/images/svc-inflatables-29.png&amp;w=900&amp;q=90&amp;v=0a058133" srcset="/.netlify/images?url=/images/svc-inflatables-29.png&amp;w=600&amp;q=90&amp;v=0a058133 600w, /.netlify/images?url=/images/svc-inflatables-29.png&amp;w=900&amp;q=90&amp;v=0a058133 900w, /.netlify/images?url=/images/svc-inflatables-29.png&amp;w=1400&amp;q=90&amp;v=0a058133 1400w" sizes="(max-width:700px) 92vw, (max-width:1100px) 46vw, 360px" alt="Inflatable Games &amp; Kids&#x27; Fun by Paradream Events" loading="lazy" decoding="async"></figure>
+      <figure class="svc-photo reveal" style="--d:180ms"><img src="/.netlify/images?url=/images/svc-inflatables-30.png&amp;w=900&amp;q=90&amp;v=d1ffb7b7" srcset="/.netlify/images?url=/images/svc-inflatables-30.png&amp;w=600&amp;q=90&amp;v=d1ffb7b7 600w, /.netlify/images?url=/images/svc-inflatables-30.png&amp;w=900&amp;q=90&amp;v=d1ffb7b7 900w, /.netlify/images?url=/images/svc-inflatables-30.png&amp;w=1400&amp;q=90&amp;v=d1ffb7b7 1400w" sizes="(max-width:700px) 92vw, (max-width:1100px) 46vw, 360px" alt="Inflatable Games &amp; Kids&#x27; Fun by Paradream Events" loading="lazy" decoding="async"></figure>
+      <figure class="svc-photo reveal" style="--d:0ms"><img src="/.netlify/images?url=/images/svc-inflatables-31.png&amp;w=900&amp;q=90&amp;v=934c51d6" srcset="/.netlify/images?url=/images/svc-inflatables-31.png&amp;w=600&amp;q=90&amp;v=934c51d6 600w, /.netlify/images?url=/images/svc-inflatables-31.png&amp;w=900&amp;q=90&amp;v=934c51d6 900w, /.netlify/images?url=/images/svc-inflatables-31.png&amp;w=1400&amp;q=90&amp;v=934c51d6 1400w" sizes="(max-width:700px) 92vw, (max-width:1100px) 46vw, 360px" alt="Inflatable Games &amp; Kids&#x27; Fun by Paradream Events" loading="lazy" decoding="async"></figure>
+      <figure class="svc-photo reveal" style="--d:90ms"><img src="/.netlify/images?url=/images/svc-inflatables-32.png&amp;w=900&amp;q=90&amp;v=ffb3da4a" srcset="/.netlify/images?url=/images/svc-inflatables-32.png&amp;w=600&amp;q=90&amp;v=ffb3da4a 600w, /.netlify/images?url=/images/svc-inflatables-32.png&amp;w=900&amp;q=90&amp;v=ffb3da4a 900w, /.netlify/images?url=/images/svc-inflatables-32.png&amp;w=1400&amp;q=90&amp;v=ffb3da4a 1400w" sizes="(max-width:700px) 92vw, (max-width:1100px) 46vw, 360px" alt="Inflatable Games &amp; Kids&#x27; Fun by Paradream Events" loading="lazy" decoding="async"></figure>
+      <figure class="svc-photo reveal" style="--d:180ms"><img src="/.netlify/images?url=/images/svc-inflatables-33.png&amp;w=900&amp;q=90&amp;v=7510d6ec" srcset="/.netlify/images?url=/images/svc-inflatables-33.png&amp;w=600&amp;q=90&amp;v=7510d6ec 600w, /.netlify/images?url=/images/svc-inflatables-33.png&amp;w=900&amp;q=90&amp;v=7510d6ec 900w, /.netlify/images?url=/images/svc-inflatables-33.png&amp;w=1400&amp;q=90&amp;v=7510d6ec 1400w" sizes="(max-width:700px) 92vw, (max-width:1100px) 46vw, 360px" alt="Inflatable Games &amp; Kids&#x27; Fun by Paradream Events" loading="lazy" decoding="async"></figure>
+      <figure class="svc-photo reveal" style="--d:0ms"><img src="/.netlify/images?url=/images/svc-inflatables-34.png&amp;w=900&amp;q=90&amp;v=2d05f5b7" srcset="/.netlify/images?url=/images/svc-inflatables-34.png&amp;w=600&amp;q=90&amp;v=2d05f5b7 600w, /.netlify/images?url=/images/svc-inflatables-34.png&amp;w=900&amp;q=90&amp;v=2d05f5b7 900w, /.netlify/images?url=/images/svc-inflatables-34.png&amp;w=1400&amp;q=90&amp;v=2d05f5b7 1400w" sizes="(max-width:700px) 92vw, (max-width:1100px) 46vw, 360px" alt="Inflatable Games &amp; Kids&#x27; Fun by Paradream Events" loading="lazy" decoding="async"></figure>
     </div>
   </div>
 </section>
